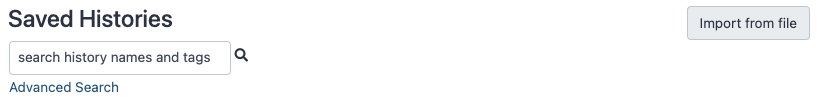
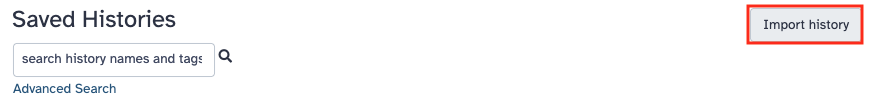
Documentation update

diff --git a/docs/rnaseq.md b/docs/rnaseq.md
@@ -2,7 +2,7 @@
 
 !!! danger "Compte rendu des résultats"
 
-	Je vous demande de m'envoyer en message direct dans Slack à la fin de la scéance le cahier de manipulation électronique (fichier texte) dans lequel sont décrites les étapes que vous avez effectuées. L’objectif est que la personne qui va relire ce document soit capable de reproduire ce que vous avez fait et obtenir les mêmes résultats que vous.
+	Je vous demande de m'envoyer en message direct dans Slack à la fin de la scéance le cahier de manipulation électronique (fichier texte) dans lequel sont décrites les étapes que vous avez effectuées pendant ce TP. L’objectif est que la personne qui va relire ce document soit capable de reproduire ce que vous avez fait et obtenir les mêmes résultats que vous.
 
 !!! attention "Objectif"
 
@@ -10,9 +10,9 @@
 
 !!! hint ""
 
-	Les questions posées tout au long de cette page sont là pour vous guider dans votre analyse, pour vous aider à comprendre ce que vous faites et ainsi mieux appréhender vos résultats. Les réponses que vous donnerez dans votre cahier seront aussi utilisées pour l’évaluation de votre travail.
+	Les questions posées tout au long de cette page sont là pour vous guider dans votre analyse, pour vous aider à comprendre ce que vous faites et ainsi mieux appréhender vos résultats. **Les réponses que vous donnerez dans votre cahier seront aussi utilisées pour l’évaluation de votre travail.**
 
-Vous allez partir de l'historique que vous avez créé mardi où se trouve les données de séquençage des ARN WT et GLKD ([voir le tutoriel](https://artbio.github.io/startbio/AnalyseGenomes_2023/Loading_data_in_galaxy/#5-dataset-collections)).
+Vous allez partir de l'historique que vous avez créé où se trouve les données de séquençage des ARN WT et GLKD ([voir le tutoriel](https://artbio.github.io/startbio/AnalyseGenomes_2023/Loading_data_in_galaxy/#5-dataset-collections)).
 
 Vous pouvez retrouver les noms des deux échantillons sur lesquels vous aller travailler dans le [tableau partagé accessible en ligne](https://docs.google.com/spreadsheets/d/1y-uBdR2TVZUIbNjM-RPxKXeMFn0OD8izTTmc3xnEFjE/edit#gid=418538100).
 
@@ -49,29 +49,41 @@ Ouvrez le [tableau partagé](https://docs.google.com/spreadsheets/d/1y-uBdR2TVZU
 
 Indiquez votre prénom sur la ligne des paramètres de mapping que vous voulez tester.
 
-Récupérez le fichier fastq de l'échantillon *Test Mapping* depuis l'historique "RNA dataset". Reportez vous aux [annexes](./annexes.md) pour savoir comment copier les données entre historiques.
+Vous allez travailler sur l'échantillon *Test Mapping* présent dans votre histoire.
 
 Vous allez utiliser l’outil ***Map with Bowtie for Illumina*** sur les données brutes de l'échantillon *Test Mapping* en alignant les lectures sur le génome de référence de la drosophile pour tester différents paramètres d'alignement.
 
-En cas de soucis d'affichage des données en entrée de l'outil Bowtie, reportez vous aux [annexes](./annexes.md) pour savoir comment changer le type des données.
+En cas de soucis d'affichage des données en entrée de l'outil Bowtie, reportez vous aux [annexes](./annexes.md#modifier-le-type-des-donnees) pour savoir comment changer le type des données.
 
 ![Alignement avec Bowtie](img/rna/bowtie1.png "Alignement avec Bowtie")
+![Alignement avec Bowtie](img/rna/bowtie2.png "Alignement avec Bowtie")
+![Alignement avec Bowtie](img/rna/bowtie3.png "Alignement avec Bowtie")
+![Alignement avec Bowtie](img/rna/bowtie4.png "Alignement avec Bowtie")
 
-Une fois l'alignement effectué, indiquez le nombre, le pourcentage de lectures alignées et le temps mis par le programme à s'exécuter dans le [tableau partagé](https://docs.google.com/spreadsheets/d/1y-uBdR2TVZUIbNjM-RPxKXeMFn0OD8izTTmc3xnEFjE/edit#gid=871313255).
+Une fois l'alignement effectué, indiquez le nombre, le pourcentage de lectures alignées et le temps mis par le programme à s'exécuter dans l'[onglet "Test alignement RNAseq" du tableau partagé](https://docs.google.com/spreadsheets/d/1y-uBdR2TVZUIbNjM-RPxKXeMFn0OD8izTTmc3xnEFjE/edit#gid=871313255).
 
 !!! hint "Question"
 
 	- Suite à ces tests quels sont les paramètres que vous allez choisir pour aligner vos échantillons ?
 
+Reporter ces paramètres dans l'[onglet "ARN" du tableau partagé](https://docs.google.com/spreadsheets/d/1y-uBdR2TVZUIbNjM-RPxKXeMFn0OD8izTTmc3xnEFjE/edit#gid=418538100).
+
+!!! danger "Attention"
+
+	Vos paramètres doivent être identiques pour vos deux échantillons !
+
 
 ### Alignements des lectures des échantillons GLKD et WT
 
-Maintenant que vous avez déterminé les options qui vous paraissent les plus pertinentes à utiliser, lancez l’alignement de votre collection de fichier fastq à l'aide de l’outil ***Map with Bowtie for Illumina***.
+Maintenant que vous avez déterminé les options qui vous paraissent les plus pertinentes à utiliser, lancez l’alignement de votre collection de vos deux échantillons d'ARN à l'aide de l’outil ***Map with Bowtie for Illumina***.
 
-![Alignement avec Bowtie](img/rna/bowtie2.png "Alignement avec Bowtie")
+![Alignement avec Bowtie](img/rna/bowtie_rna.png "Alignement avec Bowtie")
 
 Reportez le "nombre d'alignements" et vos paramètres dans le [tableau partagé](https://docs.google.com/spreadsheets/d/1y-uBdR2TVZUIbNjM-RPxKXeMFn0OD8izTTmc3xnEFjE/edit#gid=418538100).
 
+!!! hint
+
+	Les paramètres de lancement du job sont accessibles dans Galaxy. Pour cela vous devez cliquer dans votre jeu de données sur l’icône d’information (i). La page qui s’affiche vous donne accès aux paramètres de lancement de l’outil utilisé.
 
 --------------------------------------------------------------------------------
 ## Conversion des fichiers SAM
@@ -80,7 +92,8 @@ Vous allez effectuer la conversion des fichiers SAM en BAM en éliminant les lec
 
 Pour cela vous allez utiliser l’outil ***Samtools view***.
 
-![Conversion et filtrage SAM](img/rna/sam-filter-bam.png "Conversion et filtrage SAM")
+![Conversion et filtrage SAM](img/rna/sam-filter-bam1.png "Conversion et filtrage SAM")
+![Conversion et filtrage SAM](img/rna/sam-filter-bam2.png "Conversion et filtrage SAM")
 
 
 --------------------------------------------------------------------------------
@@ -88,7 +101,7 @@ Pour cela vous allez utiliser l’outil ***Samtools view***.
 
 Afin de déterminer la couverture en lectures de chacun des gènes de la drosophile, vous allez utiliser l’outil **featureCounts** dont la [documentation est disponible en ligne](https://www.rdocumentation.org/packages/Rsubread/versions/1.22.2/topics/featureCounts).
 
-Mais avant vous devez copier le fichier d’annotation du génome de la Drosophile au format GTF depuis l'historique "References" comme précédemment.
+Mais avant vous devez copier le fichier d’annotation du génome de la Drosophile au format GTF depuis l'historique "References" comme indiqué en [annexe](./annexes.md#copier-des-fichiers-entre-histoires) .
 
 !!! note "Le format GTF/GFF"
 
@@ -98,8 +111,6 @@ Le décompte des alignements va se faire sur le fichier BAM filtré et trié que
 
 ![featureCounts](img/rna/featurecounts.png "featureCounts")
 
-!!! hint "Questions"
-
 Reportez le "nombre de lectures comptées" dans le [tableau partagé](https://docs.google.com/spreadsheets/d/1y-uBdR2TVZUIbNjM-RPxKXeMFn0OD8izTTmc3xnEFjE/edit#gid=418538100).
 
 
@@ -108,21 +119,29 @@ Reportez le "nombre de lectures comptées" dans le [tableau partagé](https://do
 
 Vous allez maintenant comparer les niveaux d’expression des gènes entre vos 2 conditions à l’aide des 3 réplicats de chaque condition. Pour cela vous devez d’abord récupérer les fichiers de comptage des autres échantillons qu’il vous manque.
 
-Reportez vous aux [annexes](./annexes.md) pour savoir comment partager des données entre serveurs Galaxy.
+Reportez vous aux [annexes](./annexes.md#partage-de-fichiers-dans-galaxy) pour savoir comment partager des données entre serveurs Galaxy et récupérer les fichiers de comptage qu'ils vous manquent dans votre histoire.
 
 !!! danger "Attention"
 
-	Pour que l'analyse fonctionnelle marche, vous devez récupérer les résultats de comptage dont l'alignement a été effectué avec les paramètres que les votre. Si vous ne le faite pas vous risquez une confusion des effets au moment de l'analyse statistique.
+	Pour que l'analyse fonctionnelle marche, vous devez récupérer les résultats de comptage dont l'alignement a été effectué avec les mêmes paramètres que les votre. Si vous ne le faite pas vous risquez une confusion des effets au moment de l'analyse statistique.
 
 Ensuite vous allez utiliser l’outil ***DESeq2*** pour effectuer l’analyse différentielle. Il se base sur le [package R DESeq2](http://bioconductor.org/packages/release/bioc/html/DESeq2.html).
 
+!!! danger "Attention"
+
+	Les fichiers qui sont dans vos collections ne sont pas visibles de la même façon que ceux qui vous avez récupérés. Il faut soit rendre visible vos échantillons dans vos collections soit supprimer la collection des comptages pour les faire apparaître.
+
+!!! hint
+
+	Le mieux est de créer 2 collections "featureCounts", l'une pour les échantillons WT et l'autre pour les GLKD.
+
 Vous devez indiquer à l’outil quels sont les échantillons à rattacher à chaque condition (facteur), puis lancer l’analyse.
 
-![DESeq2](img/rna/deseq2.png "DESeq2")
+![DESeq2](img/rna/deseq2a.png "DESeq2")
+![DESeq2](img/rna/deseq2b.png "DESeq2")
 
 !!! hint "Questions"
 
-	- Quel est le nombre de gènes différentiellement exprimés que vous obtenez ?
 	- L’étape d’analyse différentielle s’est elle bien déroulée ?
 
 
@@ -139,7 +158,7 @@ Un [tutoriel](https://training.galaxyproject.org/training-material/topics/transc
 
 Par exemple voici comment visualiser sur le volcano plot la liste des gènes cibles des amorces que vous avez utilisés en qPCR.
 
-Comme vous l'avez fait pour [la liste des chromosomes de la drosophile](https://artbio.github.io/startbio/AnalyseGenomes_2023/Preparing_reference/#a-simplify-fasta-headers), créez la liste des noms de gènes cibles de vos amorces de qPRC dans votre historique Galaxy. Appelez la "cibles_pcr". Indiquez "tabular" pour type de données.
+Comme vous l'avez fait pour [la liste des chromosomes de la drosophile](https://artbio.github.io/startbio/AnalyseGenomes_2023/Preparing_reference/#a-simplify-fasta-headers), créez la liste des noms de gènes cibles de vos amorces de qPRC dans votre historique Galaxy. Appelez la "cibles_pcr". **Indiquez "tabular" pour type de données.**
 
 Voici la liste des gènes
 ```

diff --git a/docs/ressources.md b/docs/ressources.md
@@ -1,0 +1,81 @@
+# 4. Ressources
+	
+Cette section regroupe un ensemble de fichier ressources utiles pour le TP
+
+--------------------------------------------------------------------------------
+## Données brutes
+
+### Genomic features
+
+Pour ce TP nous utiliserons la version 6.54 du génome de *Drosophila melanogaster* dont les fichiers de séquence au format fasta sont accessibles sur le [site FTP de Flybase](https://ftp.flybase.net/genomes/Drosophila_melanogaster/dmel_r6.54_FB2023_05/fasta/).
+La liste ci-dessous peut-être directement importée dans votre serveur Galaxy. 
+
+```
+https://ftp.flybase.net/genomes/Drosophila_melanogaster/dmel_r6.54_FB2023_05/fasta/dmel-all-chromosome-r6.54.fasta.gz	dmel-r6.54-fasta
+https://ftp.flybase.net/genomes/Drosophila_melanogaster/dmel_r6.54_FB2023_05/fasta/dmel-all-miRNA-r6.54.fasta.gz	dmel-r6.54-miRNA
+https://ftp.flybase.net/genomes/Drosophila_melanogaster/dmel_r6.54_FB2023_05/fasta/dmel-all-miscRNA-r6.54.fasta.gz	dmel-r6.54-miscRNA
+https://ftp.flybase.net/genomes/Drosophila_melanogaster/dmel_r6.54_FB2023_05/fasta/dmel-all-tRNA-r6.54.fasta.gz	dmel-r6.54-tRNA
+https://ftp.flybase.net/genomes/Drosophila_melanogaster/dmel_r6.54_FB2023_05/gtf/dmel-all-r6.54.gtf.gz	dmel-r6.54-gtf
+```
+
+Séquence du transgène PLacZ
+```
+https://psilo.sorbonne-universite.fr/index.php/s/Kdm3_GenomicFeatures/download?path=%2F&files=PLacZ.fasta	PLacZ
+```
+
+### Petits ARN
+
+La liste ci-dessous peut-être directement importée dans votre serveur Galaxy. Attention à ne sélectionner uniquement que les lignes correspondant aux deux échantillons sur lesquels vous allez travailler et qui sont indiqués dans le [tableau partagé dans l'onglet "petits ARN"](https://docs.google.com/spreadsheets/d/1y-uBdR2TVZUIbNjM-RPxKXeMFn0OD8izTTmc3xnEFjE/edit#gid=243437883).
+
+```
+GLKD
+https://psilo.sorbonne-universite.fr/index.php/s/Kdm3_smallRNAseqData/download?path=%2F&files=ALBA28.fastqsanger.gz	GLKD-ALBA28
+https://psilo.sorbonne-universite.fr/index.php/s/Kdm3_smallRNAseqData/download?path=%2F&files=ALBA29.fastqsanger.gz	GLKD-ALBA29
+https://psilo.sorbonne-universite.fr/index.php/s/Kdm3_smallRNAseqData/download?path=%2F&files=ALBA30.fastqsanger.gz	GLKD-ALBA30
+
+WT
+https://psilo.sorbonne-universite.fr/index.php/s/Kdm3_smallRNAseqData/download?path=%2F&files=ALBA25.fastqsanger.gz	WT-ALBA25
+https://psilo.sorbonne-universite.fr/index.php/s/Kdm3_smallRNAseqData/download?path=%2F&files=ALBA26.fastqsanger.gz	WT-ALBA26
+https://psilo.sorbonne-universite.fr/index.php/s/Kdm3_smallRNAseqData/download?path=%2F&files=ALBA27.fastqsanger.gz	WT-ALBA27
+```
+
+### ARN
+
+La liste ci-dessous peut-être directement importée dans votre serveur Galaxy. Attention à ne sélectionner uniquement que les lignes correspondant aux deux échantillons sur lesquels vous allez travailler et qui sont indiqués dans le [tableau partagé dans l'onglet "ARN"](https://docs.google.com/spreadsheets/d/1y-uBdR2TVZUIbNjM-RPxKXeMFn0OD8izTTmc3xnEFjE/edit#gid=418538100).
+
+```
+GLKD
+https://psilo.sorbonne-universite.fr/index.php/s/Kdm3_RNAseqData/download?path=%2F&files=ALBA1.fastqsanger.gz	GLKD-ALBA1
+https://psilo.sorbonne-universite.fr/index.php/s/Kdm3_RNAseqData/download?path=%2F&files=ALBA2.fastqsanger.gz	GLKD-ALBA2
+https://psilo.sorbonne-universite.fr/index.php/s/Kdm3_RNAseqData/download?path=%2F&files=ALBA3.fastqsanger.gz	GLKD-ALBA3
+
+WT
+https://psilo.sorbonne-universite.fr/index.php/s/Kdm3_RNAseqData/download?path=%2F&files=ALBA4.fastqsanger.gz	WT-ALBA4
+https://psilo.sorbonne-universite.fr/index.php/s/Kdm3_RNAseqData/download?path=%2F&files=ALBA5.fastqsanger.gz	WT-ALBA5
+https://psilo.sorbonne-universite.fr/index.php/s/Kdm3_RNAseqData/download?path=%2F&files=ALBA6.fastqsanger.gz	WT-ALBA6
+```
+
+--------------------------------------------------------------------------------
+## Amorces de qPCR
+
+Vous pouvez visualiser les amorces que vous avez utilisé lors de vos quantifications par qPCR dans IGV en téléchargeant le fichier [PCRprimers.gff](ressources/PCRprimers.gff).
+
+
+--------------------------------------------------------------------------------
+## Locus de piRNA
+
+Séquences fasta des piRNA clusters et du transgene lacZ cible.
+
+```
+https://psilo.sorbonne-universite.fr/index.php/s/AG_Ressources/download?path=%2F&files=20A.fasta
+https://psilo.sorbonne-universite.fr/index.php/s/AG_Ressources/download?path=%2F&files=38C_1.fasta
+https://psilo.sorbonne-universite.fr/index.php/s/AG_Ressources/download?path=%2F&files=38C_2.fasta
+https://psilo.sorbonne-universite.fr/index.php/s/AG_Ressources/download?path=%2F&files=38C_3.fasta
+https://psilo.sorbonne-universite.fr/index.php/s/AG_Ressources/download?path=%2F&files=42AB.fasta
+https://psilo.sorbonne-universite.fr/index.php/s/AG_Ressources/download?path=%2F&files=80F.fasta
+https://psilo.sorbonne-universite.fr/index.php/s/AG_Ressources/download?path=%2F&files=flamenco.fasta 
+https://psilo.sorbonne-universite.fr/index.php/s/AG_Ressources/download?path=%2F&files=PA92_TransgeneCible.fasta
+```
+
+Vous pouvez récupérer les coordonnées génomiques des piARN stockés sur la [piRNAdb](https://www.pirnadb.org/download/archive/gff_gtf) aux formats GTF et GFF.
+

diff --git a/docs/annexes.md b/docs/annexes.md
@@ -75,25 +75,44 @@ Pour utiliser dans votre histoire actuel un fichier situé dans un autre histoir
 --------------------------------------------------------------------------------
 ## Partage de fichiers dans Galaxy
 
-Pour partager un historique, il faut tout d'abord sélectionner « Partager et Publier » dans le menu de la roue crantée en haut à droite puis choisir « Make History Accessible ».
+### Isoler les données à partager dans une histoire dédidée
 
-![Partage d'historique](img/annexes/history_share.png "Partage d'historique")
+La première étape consiste à copier les données à partager dans une nouvelle histoire.
 
-Retournez de nouveau dans le menu de la roue crantée et cliquer sur « Exporter l’historique dans un fichier » dans le sous-menu « Télécharger ». Choisir "to a link" et cliquer sur "Click here to to generate a new archive for this history".
+![Nouvelle histoire](img/annexes/history_new.png "Nouvelle histoire")
+
+Sélectionnez cette nouvelle histoire, supprimez la collection, affichez les éléments invisibles et rendez-les visibles
+
+![Suppression d'une collection](img/annexes/history_collection_delete.png "Suppression d'une collection")
+![Affichage des éléments invisibles](img/annexes/history_unhidde.png "Affichage des éléments invisibles")
+
+Renommez vos éléments pour les rendre plus facile à trouver.
+
+### Partager votre histoire
+
+Pour partager votre histoire, il faut tout d'abord sélectionner « Partager et Publier » dans le menu d'option tout en haut à droite puis choisir « Make History Accessible ».
+
+![Partage d'historique](img/annexes/history_share1.png "Partage d'historique")
+![Partage d'historique](img/annexes/history_share2.png "Partage d'historique")
+
+Retournez de nouveau dans le menu en haut à droite, cliquez sur « Exporter l’historique dans un fichier » puis sur le lien "Click here to generate a new archive for this history".
 
 ![Export d'historique](img/annexes/history_export.png "Export d'historique")
 
-Il faut alors cliquer sur le lien qui s'affiche dans la partie centrale pour récupérer l'archive de l'historique (.tar.gz) en local.
+**Conserver ce lien car c'est lui qui vous permet de partager votre histoire avec d'autres serveurs Galaxy.** Vous pouvez aussi cliquer sur le lien pour récupérer l'historique en local. Attention les données génomiques peuvent être volumineuses !
 
 ![URL de l'historique](img/annexes/history_url.png "URL de l'historique")
 
-Pour importer un historique partagé, allez dans le menu "User" puis choisir "Histories". Cliquer sur "Import from file".
+### Importer une histoire partagée
 
-![Import d'historique](img/annexes/history_import.png "Import d'historique")
+Pour importer une histoire partagé, allez dans le menu "Utilisateur" puis choisir "Histories". Cliquez sur "Import history" en haut à droite.
 
-Sélectionnez "Upload local file from your computer", cliquez sur "Browse" pour choisir l'emplacement du fichier puis sur "Import history".
+![Import d'histoire](img/annexes/history_import.png "Import d'histoire")
 
-![Import d'historique](img/annexes/history_upload.png "Import d'historique")
+Sélectionnez "Export URL from another Galaxy instance" puis collez l'URL de l'histoire que vous voulez récupérer dans le champ "Archived History URL".
+
+![Import d'histoire](img/annexes/history_upload1.png "Import d'histoire")
+![Import d'histoire](img/annexes/history_upload2.png "Import d'histoire")
 
 Une fois importé, pensez à le renommer pour lui donner un nom plus explicite.
 

diff --git a/docs/igv.md b/docs/igv.md
@@ -24,8 +24,8 @@ Vous allez utiliser IGV en local dans votre VM sur les machines de la salle du c
 Les fichiers à télécharger sont les suivants :
 
 - Le génome de la *drosophile* au format fasta : dmel-MAIN-chromosome-r6.54.fasta
-- Le fichier d'annotation au format gtf : dmel-all-r6.18.gtf
-- Les fichiers bam filtrés, triés et leurs index d'un des fichiers SF et d'un des fichiers WT : ALBA4.bam, ALBA4.bai, ALBA1.bam, ALBA1.bai
+- Le fichier d'annotation au format gtf : dmel-r6.54-gtf
+- Les fichiers bam filtrés, triés et leurs index des fichiers GLKD et WT que vos avez analysés, exmeple : ALBA4.bam, ALBA4.bai, ALBA1.bam, ALBA1.bai
 
 !!! danger "Attention"
 
@@ -103,30 +103,4 @@ Tous vos paramètres d'échelle, de couleurs, les chemins vers les données que 
 !!! danger "Attention"
 
 	Ne mettez pas d'accents ou de caractères spéciaux dans les annotations que vous utiliserez, ainsi que dans votre arborescence de fichiers. IGV va enregistrer votre session en encodant vos caractères spéciaux mais ne sera plus capable de s'y retrouver quand vous souhaiterez rouvrir une session ainsi sauvegardée. 
-
---------------------------------------------------------------------------------
-## Ressources
-
-
-### Amorces de qPCR
-
-Vous pouvez visualiser les amorces que vous avez utilisé lors de vos quantifications par qPCR dans IGV en téléchargeant le fichier [PCRprimers.gff](ressources/PCRprimers.gff).
-
-
-### Locus de piRNA
-
-Séquences fasta des piRNA clusters et du transgene lacZ cible.
-
-```
-https://psilo.sorbonne-universite.fr/index.php/s/AG_Ressources/download?path=%2F&files=20A.fasta
-https://psilo.sorbonne-universite.fr/index.php/s/AG_Ressources/download?path=%2F&files=38C_1.fasta
-https://psilo.sorbonne-universite.fr/index.php/s/AG_Ressources/download?path=%2F&files=38C_2.fasta
-https://psilo.sorbonne-universite.fr/index.php/s/AG_Ressources/download?path=%2F&files=38C_3.fasta
-https://psilo.sorbonne-universite.fr/index.php/s/AG_Ressources/download?path=%2F&files=42AB.fasta
-https://psilo.sorbonne-universite.fr/index.php/s/AG_Ressources/download?path=%2F&files=80F.fasta
-https://psilo.sorbonne-universite.fr/index.php/s/AG_Ressources/download?path=%2F&files=flamenco.fasta 
-https://psilo.sorbonne-universite.fr/index.php/s/AG_Ressources/download?path=%2F&files=PA92_TransgeneCible.fasta
-```
-
-Vous pouvez récupérer les coordonnées génomiques des piARN stockés sur la [piRNAdb](https://www.pirnadb.org/download/archive/gff_gtf) aux formats GTF et GFF.
 

diff --git a/docs/srna.md b/docs/srna.md
@@ -85,7 +85,7 @@ L’objectif de cette étape est de retirer de nos petits ARN certains élément
 
 Pour ce TP vous allez utiliser la version 6.54 du génome de *Drosophila melanogaster* dont les fichiers de séquence au format fasta sont accessibles sur le [site FTP de Flybase](https://ftp.flybase.net/genomes/Drosophila_melanogaster/dmel_r6.54_FB2023_05/fasta/)
 
-Reportez vous aux [annexes](./annexes.md#copier-des-fichiers-entre-historiques) pour savoir comment copier les données entre historiques des fichiers fasta dont vous avez besoin.
+Reportez vous aux [annexes](./annexes.md#copier-des-fichiers-entre-histoires) pour savoir comment copier les données entre historiques des fichiers fasta dont vous avez besoin.
 
 
 ### Choix des paramètres d'alignement
@@ -147,7 +147,7 @@ Les différents lancement du workflow qui ont été effectués apparaissent dans
 
 Pour aller plus loin dans l’analyse des loci producteurs de petits ARN, vous allez aligner spécifiquement les séquences que vous avez obtenues sur celle du transgène ***PLacZ***.
 
-Reportez vous aux [annexes](./annexes.md#copier-des-fichiers-entre-historiques) pour savoir comment copier les données entre historiques pour récupérer la séquence fasta de *PLacZ*.
+Reportez vous aux [annexes](./annexes.md#copier-des-fichiers-entre-histoires) pour savoir comment copier les données entre historiques pour récupérer la séquence fasta de *PLacZ*.
 
 Vous allez utiliser l’outil ***sR_bowtie*** sur les données nettoyées précédentes en alignant les lectures sur la séquence de *PLacZ*. On cherche maintenant à obtenir des alignements à 1 seule position sur la séquence même si ils peuvent s'aligner à plusieurs endroits.
 
